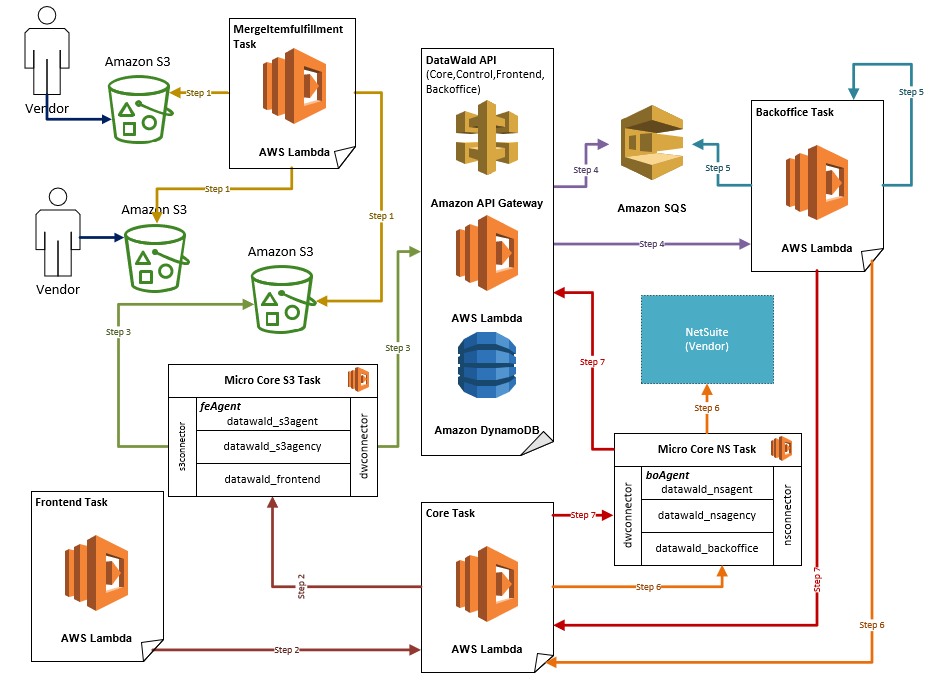
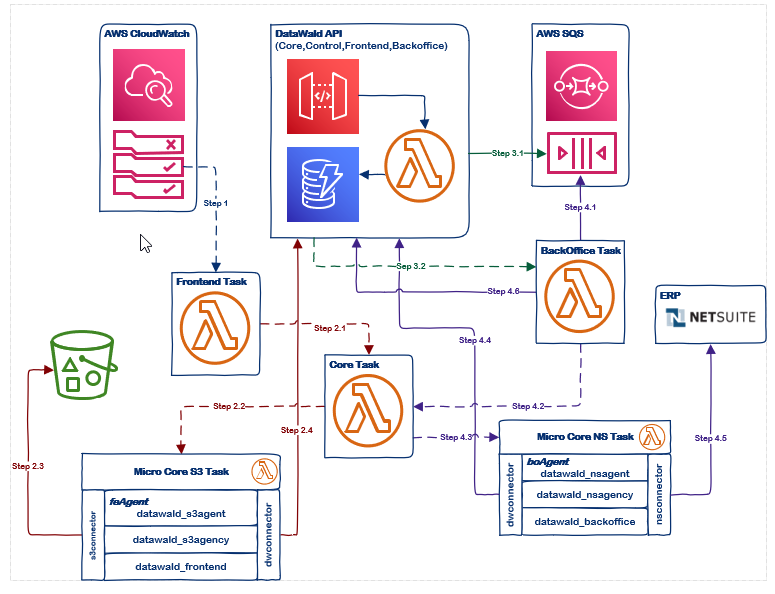
Updated purchase order workflow.

Changed region(s): [[0.0, 0.0, 1.0, 1.0], [0.031, 0.0, 0.0619, 0.0606], [0.0, 0.0606, 0.031, 0.0909]]

diff --git a/_posts/2019-08-11-Purchase-Order-Automation-With-NS-S3.md b/_posts/2019-08-11-Purchase-Order-Automation-With-NS-S3.md
@@ -13,6 +13,9 @@ First, the workflow will be initiated which are issued by PO transactions in Net
 
 ### Receiving invoices (item fulfillments) from vendors:
 When each vendor processes a PO, a corresponding invoice (item fulfillment) file will be placed in the bucket.  A periodic task will scan each bucket(assigned to each vendor) and merge all invoices(item fulfillments) files into one if all related invoices(item fulfillments) of a sales order are sent back and then place the files in a dedicated bucket.  Next, another scheduled task will process the merged files from the bucket to a staging table in AWS DynamoDB.  In the meantime, the logic will check the records (a.k.a item fulfillments in the system) and update accordingly. That is, any new record or change on previous ones will be placed into a queue and the system will dispatch a task to process it properly.  Then, the records in the queue will be processed into NetSuite.  The last step is a task will be fired to inspect if each record is processed successfully or not and update the details of the status.  If any record is failed for any reason, the system will  resend the record after correcting the data in the staging table.
+
+![Receiving Invoices Workflow 0](/images/2019-08-19_23-02-52-0.png)
+
 ![Receiving Invoices Workflow](/images/2019-08-19_23-02-52.png)
 
 To automate the workflow of the purchase order is a matter of the efficiency of the business's operation among the purchase vendors.
